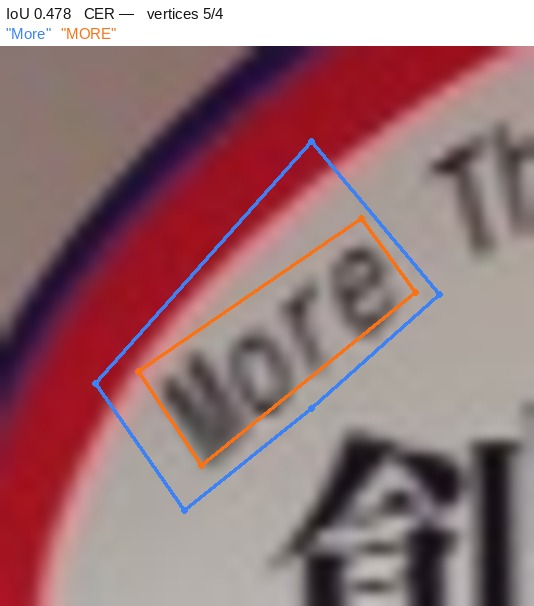
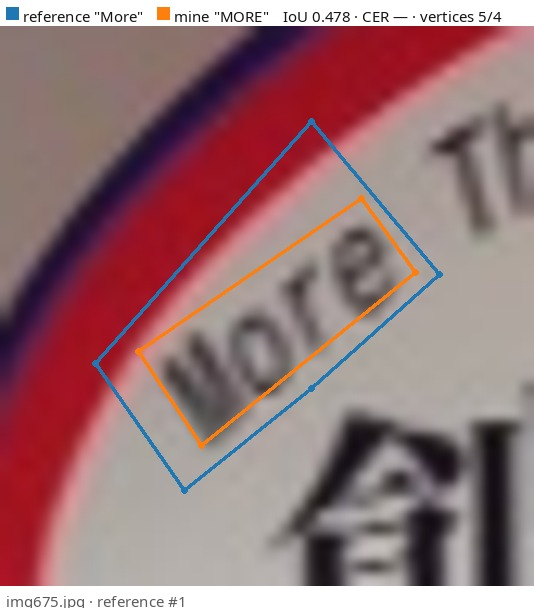
Adopt the shared demonstration frame
The crops distinguished the two transcriptions by the colour of the text and
nothing else -- exactly the "which one is whose?" the frame exists to answer.
Each transcription now sits next to its own swatch: reference "Downstairs"
against mine "DOWNSTAIRS". tools/chrome.py is ported verbatim from
polygon-annotation-agreement.

Added a footer naming the frame and the reference object id. Colours moved to
the portfolio pair. The dead `truetype` parameter is gone: it was threaded
through three signatures and read by none of them.

Crops, split pairs and both charts regenerated; every metric is unchanged.

Claude-Session: https://claude.ai/code/session_017ughEABcYgoJcSavLjH6Ju

diff --git a/tools/chrome.py b/tools/chrome.py
@@ -1,0 +1,163 @@
+# Ported unchanged from polygon-annotation-agreement/tools/chrome.py --
+# the demonstration frame is the same across every stage of the portfolio.
+#!/usr/bin/env python3
+"""The frame around a demonstration picture: header, swatches, footer.
+
+Every picture of a disagreement in this portfolio carries the same frame, so
+that it can be read on its own -- saved, pasted into a message, or opened years
+later without the README next to it. The frame answers three questions before
+the reader looks at the picture:
+
+    which colour is the reference and which is mine   -- the swatches
+    what the numbers of this case are                 -- the header facts
+    which frame this is                               -- the footer
+
+Two layouts, one rule. With an overlay both swatches sit side by side in the
+header. With two panels the swatch sits over its own panel, so colour and side
+are named together rather than instead of each other.
+
+The colours are the matplotlib tab10 blue and orange. They are fixed here and
+not passed in: a demonstration where blue means the reference in one repository
+and something else in another is worse than no legend at all.
+"""
+
+from pathlib import Path
+
+from PIL import Image, ImageDraw, ImageFont
+
+REF_COLOR = (31, 119, 180)      # blue: the reference annotation
+MINE_COLOR = (255, 127, 14)     # orange: mine
+
+BAR_H = 26                      # header
+FOOT_H = 22                     # footer
+BAR_BG = (255, 255, 255)
+BAR_FG = (20, 20, 20)
+FOOT_FG = (90, 90, 90)
+SWATCH = 12
+PAD = 6
+
+REF_LABEL = "reference"
+MINE_LABEL = "mine"
+
+FONT_CANDIDATES = [
+    "/usr/share/fonts/TTF/DejaVuSans.ttf",
+    "/usr/share/fonts/truetype/dejavu/DejaVuSans.ttf",
+    "/usr/share/fonts/dejavu/DejaVuSans.ttf",
+    "/usr/share/fonts/noto/NotoSans-Regular.ttf",
+    "/usr/share/fonts/liberation/LiberationSans-Regular.ttf",
+    "/usr/share/fonts/truetype/liberation/LiberationSans-Regular.ttf",
+]
+
+
+def load_font(size: int = 14):
+    """A TrueType font of the requested size, or the built-in default.
+
+    The bitmap font built into Pillow ignores the size argument and comes out
+    too small to read once GitHub scales the picture down.
+    """
+    for path in FONT_CANDIDATES:
+        if Path(path).exists():
+            try:
+                return ImageFont.truetype(path, size)
+            except OSError:
+                continue
+    for path in sorted(Path("/usr/share/fonts").rglob("*.ttf")):
+        try:
+            return ImageFont.truetype(str(path), size)
+        except OSError:
+            continue
+    return ImageFont.load_default()
+
+
+def text_width(draw: ImageDraw.ImageDraw, text: str, font) -> int:
+    box = draw.textbbox((0, 0), text, font=font)
+    return box[2] - box[0]
+
+
+def legend(draw: ImageDraw.ImageDraw, x: int, y: int, font,
+           ref_label: str = REF_LABEL, mine_label: str = MINE_LABEL) -> int:
+    """One swatch-and-label pair per side. Returns the x after the last label."""
+    for color, label in ((REF_COLOR, ref_label), (MINE_COLOR, mine_label)):
+        draw.rectangle([x, y, x + SWATCH, y + SWATCH], fill=color)
+        x += SWATCH + 5
+        draw.text((x, y - 2), label, fill=BAR_FG, font=font)
+        x += text_width(draw, label, font) + 14
+    return x
+
+
+def with_chrome(image: Image.Image, facts: str = "", footer: str = "",
+                panels: int = 1, gutter: int = 8, font=None,
+                upscale: bool = False,
+                ref_label: str = REF_LABEL, mine_label: str = MINE_LABEL):
+    """A white canvas of header + image + footer, with the frame drawn on it.
+
+    panels=1  the image is pasted once and both swatches sit in the header;
+    panels=2  the image is pasted twice side by side and each panel gets its
+              own swatch above it -- the caller draws the reference on the left
+              and mine on the right.
+
+    ref_label / mine_label extend the two labels where the side carries more
+    than its name -- a transcription, say. The swatch still comes first, so the
+    colour and what it stands for are read together.
+
+    upscale=True enlarges an image narrower than its own legend so that it
+    fills the canvas instead of sitting in a corner of white space. Only for
+    pictures already drawn on: it invalidates the returned offsets, so callers
+    that keep drawing afterwards must leave it off.
+
+    Returns (canvas, draw, top, panel_width). `top` is the y offset of the image
+    area: the caller keeps drawing in image coordinates shifted by it. With two
+    panels the right one starts at `panel_width + gutter`.
+    """
+    if panels not in (1, 2):
+        raise ValueError("panels must be 1 or 2")
+    font = font or load_font()
+    w, h = image.width, image.height
+    total_w = w * panels + gutter * (panels - 1)
+
+    # A crop can be narrower than its own legend. Widening the canvas is the
+    # only option that keeps the legend readable: shrinking the text defeats
+    # the purpose, and dropping it takes the picture back to "which colour is
+    # which?", which is exactly what this frame exists to answer.
+    probe = ImageDraw.Draw(Image.new("RGB", (1, 1)))
+    needed = PAD * 2
+    for label in (ref_label, mine_label):
+        needed += SWATCH + 5 + text_width(probe, label, font) + 14
+    if facts:
+        needed += text_width(probe, facts, font)
+    if footer:
+        needed = max(needed, PAD * 2 + text_width(probe, footer, font))
+    if needed > total_w and upscale:
+        # A crop is meant to be looked at closely anyway -- a 30 px contour
+        # cannot be judged at native size. Growing it to the legend width
+        # costs nothing and removes the white margin.
+        factor = needed / total_w
+        w, h = int(w * factor), int(h * factor)
+        image = image.resize((w, h), Image.LANCZOS)
+        total_w = w * panels + gutter * (panels - 1)
+    total_w = max(total_w, needed)
+
+    canvas = Image.new("RGB", (total_w, BAR_H + h + FOOT_H), BAR_BG)
+    for i in range(panels):
+        canvas.paste(image, (i * (w + gutter), BAR_H))
+    draw = ImageDraw.Draw(canvas)
+
+    y = (BAR_H - SWATCH) // 2
+    if panels == 1:
+        x = legend(draw, PAD, y, font, ref_label, mine_label)
+        if facts:
+            draw.text((x, y - 2), facts, fill=BAR_FG, font=font)
+    else:
+        for i, (color, label) in enumerate(((REF_COLOR, ref_label),
+                                            (MINE_COLOR, mine_label))):
+            x = i * (w + gutter) + PAD
+            draw.rectangle([x, y, x + SWATCH, y + SWATCH], fill=color)
+            draw.text((x + SWATCH + 5, y - 2), label, fill=BAR_FG, font=font)
+        if facts:
+            x = PAD + SWATCH + 5 + text_width(draw, ref_label, font) + 14
+            draw.text((x, y - 2), facts, fill=BAR_FG, font=font)
+
+    if footer:
+        draw.text((PAD, BAR_H + h + (FOOT_H - 13) // 2), footer,
+                  fill=FOOT_FG, font=font)
+    return canvas, draw, BAR_H, w

diff --git a/tools/render_text.py b/tools/render_text.py
@@ -29,34 +29,17 @@ sys.path.insert(0, str(Path(__file__).resolve().parent.parent / "common"))
 
 from icdar import by_image, load_cvat_icdar, load_totaltext  # noqa: E402
 
-REF_COLOR = (60, 130, 246)
-MY_COLOR = (249, 115, 22)
+sys.path.insert(0, str(Path(__file__).resolve().parent))
+
+from chrome import (MINE_COLOR as MY_COLOR, REF_COLOR,  # noqa: E402
+                    load_font, with_chrome)
+
 BAD = (220, 38, 38)
 OK = (34, 160, 90)
 
-FONT_CANDIDATES = [
-    "/usr/share/fonts/TTF/DejaVuSans.ttf",
-    "/usr/share/fonts/truetype/dejavu/DejaVuSans.ttf",
-    "/usr/share/fonts/liberation/LiberationSans-Regular.ttf",
-    "/usr/share/fonts/truetype/liberation/LiberationSans-Regular.ttf",
-    "/Library/Fonts/Arial.ttf",
-    "C:/Windows/Fonts/arial.ttf",
-]
-
-
-def load_font(size: int) -> tuple[object, bool]:
-    """Returns (font, whether a TrueType face was found)."""
-    for path in FONT_CANDIDATES:
-        if Path(path).exists():
-            try:
-                return ImageFont.truetype(path, size), True
-            except OSError:
-                continue
-    return ImageFont.load_default(), False
-
 
 def render_pair(image_path: Path, ref, mine, iou, cer, out: Path, font,
-                truetype: bool, target: int = 560) -> None:
+                gt_id=None, target: int = 560) -> None:
     img = Image.open(image_path).convert("RGB")
     xs = [p[0] for p in ref.ring + mine.ring]
     ys = [p[1] for p in ref.ring + mine.ring]
@@ -70,10 +53,14 @@ def render_pair(image_path: Path, ref, mine, iou, cer, out: Path, font,
     crop = crop.resize((max(1, int(crop.width * scale)),
                         max(1, int(crop.height * scale))))
 
-    head = 46
-    canvas = Image.new("RGB", (crop.width, crop.height + head), (255, 255, 255))
-    canvas.paste(crop, (0, head))
-    d = ImageDraw.Draw(canvas)
+    cer_text = "—" if cer is None else f"{cer:.2f}"
+    facts = (f"IoU {iou:.3f} · CER {cer_text} · "
+             f"vertices {ref.vertices}/{mine.vertices}")
+    canvas, d, head, _ = with_chrome(
+        crop, facts=facts, font=font,
+        footer=(image_path.name if gt_id is None
+                else f"{image_path.name} · reference #{gt_id}"),
+        ref_label=f'reference "{ref.text}"', mine_label=f'mine "{mine.text}"')
     for obj, color in ((ref, REF_COLOR), (mine, MY_COLOR)):
         pts = [((x - x0) * scale, (y - y0) * scale + head) for x, y in obj.ring]
         if len(pts) >= 3:
@@ -81,17 +68,10 @@ def render_pair(image_path: Path, ref, mine, iou, cer, out: Path, font,
             d.line(pts + [pts[0]], fill=color, width=3)
         for px, py in pts:
             d.ellipse([px - 3, py - 3, px + 3, py + 3], fill=color)
-    cer_text = "—" if cer is None else f"{cer:.2f}"
-    line1 = (f"IoU {iou:.3f}   CER {cer_text}   "
-             f"vertices {ref.vertices}/{mine.vertices}")
-    d.text((6, 5), line1, fill=(20, 20, 20), font=font)
-    d.text((6, 25), f'"{ref.text}"', fill=REF_COLOR, font=font)
-    w = d.textlength(f'"{ref.text}"', font=font)
-    d.text((16 + w, 25), f'"{mine.text}"', fill=MY_COLOR, font=font)
     canvas.save(out, quality=92)
 
 
-def render_orientation(metrics: dict, out: Path, font, truetype: bool) -> None:
+def render_orientation(metrics: dict, out: Path, font) -> None:
     rows = [(k, v["pairs"], v["iou"])
             for k, v in metrics["iou_by_orientation"].items() if v["pairs"]]
     rows.sort(key=lambda r: r[2])
@@ -112,7 +92,7 @@ def render_orientation(metrics: dict, out: Path, font, truetype: bool) -> None:
     img.save(out)
 
 
-def render_axes(metrics: dict, out: Path, font, truetype: bool) -> None:
+def render_axes(metrics: dict, out: Path, font) -> None:
     """Scatter plot: geometry against text."""
     pts = [(p["iou"], p["cer"]) for p in metrics["pairs"] if p["cer"] is not None]
     size, pad, top = 460, 62, 52
@@ -155,9 +135,7 @@ def main() -> int:
     mine = {(o.image, o.ident): o for o in load_cvat_icdar(args.mine)}
 
     args.out.mkdir(parents=True, exist_ok=True)
-    font, truetype = load_font(16)
-    if not truetype:
-        print("no TrueType face found: captions fall back to the bitmap font")
+    font = load_font(16)
 
     chosen, seen = [], set()
     for source, key in (("geometry", "worst_geometry"), ("text", "worst_text")):
@@ -180,13 +158,13 @@ def main() -> int:
             continue
         name = f"{k:02d}_{source}_{Path(item['image']).stem}_{item['gt_id']}.jpg"
         render_pair(args.images / item["image"], ref, my, pair["iou"], pair["cer"],
-                    args.out / name, font, truetype)
+                    args.out / name, font, gt_id=item["gt_id"])
         made.append({"file": name, "source": source, "image": item["image"],
                      "gt_id": item["gt_id"], "iou": pair["iou"], "cer": pair["cer"],
                      "gt_text": ref.text, "my_text": my.text})
 
-    render_orientation(metrics, args.out / "iou_by_orientation.png", font, truetype)
-    render_axes(metrics, args.out / "geometry_vs_text.png", font, truetype)
+    render_orientation(metrics, args.out / "iou_by_orientation.png", font)
+    render_axes(metrics, args.out / "geometry_vs_text.png", font)
     (args.out / "pairs_manifest.json").write_text(
         json.dumps(made, ensure_ascii=False, indent=2), encoding="utf-8")
     print(f"pairs rendered {len(made)}, plus iou_by_orientation.png "

diff --git a/tools/render_split.py b/tools/render_split.py
@@ -52,7 +52,7 @@ def main() -> int:
     gt = by_image(load_totaltext(args.gt))
     mine = by_image(load_cvat_icdar(args.mine))
     args.out.mkdir(parents=True, exist_ok=True)
-    font, truetype = load_font(15)
+    font = load_font(15)
 
     free_gt = {(u["image"], u["id"]) for u in metrics["unmatched_gt_list"]}
     free_my = {(u["image"], u["id"]) for u in metrics["unmatched_mine_list"]}
@@ -80,7 +80,7 @@ def main() -> int:
         with Image.open(path) as im:
             iou = poly_iou(r, m, im.width, im.height)
         name = f"{n:02d}_{Path(image).stem}_{r.text}.jpg"
-        render_pair(path, r, m, iou, None, args.out / name, font, truetype)
+        render_pair(path, r, m, iou, None, args.out / name, font, gt_id=i)
         made.append({"file": name, "image": image, "gt_id": i, "my_id": j,
                      "iou": iou, "gt_text": r.text, "my_text": m.text,
                      "gt_vertices": r.vertices, "my_vertices": m.vertices})

diff --git a/tools/build_readme.py b/tools/build_readme.py
@@ -116,7 +116,8 @@ def main() -> int:
 
     if pairs:
         out += ["## The worst pairs", "",
-                "Blue is the reference, orange is mine. Both axes are quoted for each.", ""]
+                "Every picture carries its own legend: a blue swatch for the reference, an orange one for mine, the numbers of the case beside them and the frame name underneath.", "",
+                "Both axes are quoted for each.", ""]
         for item in pairs:
             key = f"{Path(item['image']).stem}_{item['gt_id']}"
             cer_text = "--" if item["cer"] is None else f"{item['cer']:.3f}"

diff --git a/README.md b/README.md
@@ -83,7 +83,9 @@ because with a rare class the raw share is high all by itself.
 
 ## The worst pairs
 
-Blue is the reference, orange is mine. Both axes are quoted for each.
+Every picture carries its own legend: a blue swatch for the reference, an orange one for mine, the numbers of the case beside them and the frame name underneath.
+
+Both axes are quoted for each.
 
 ### img894.jpg · reference #8 · geometry
 
